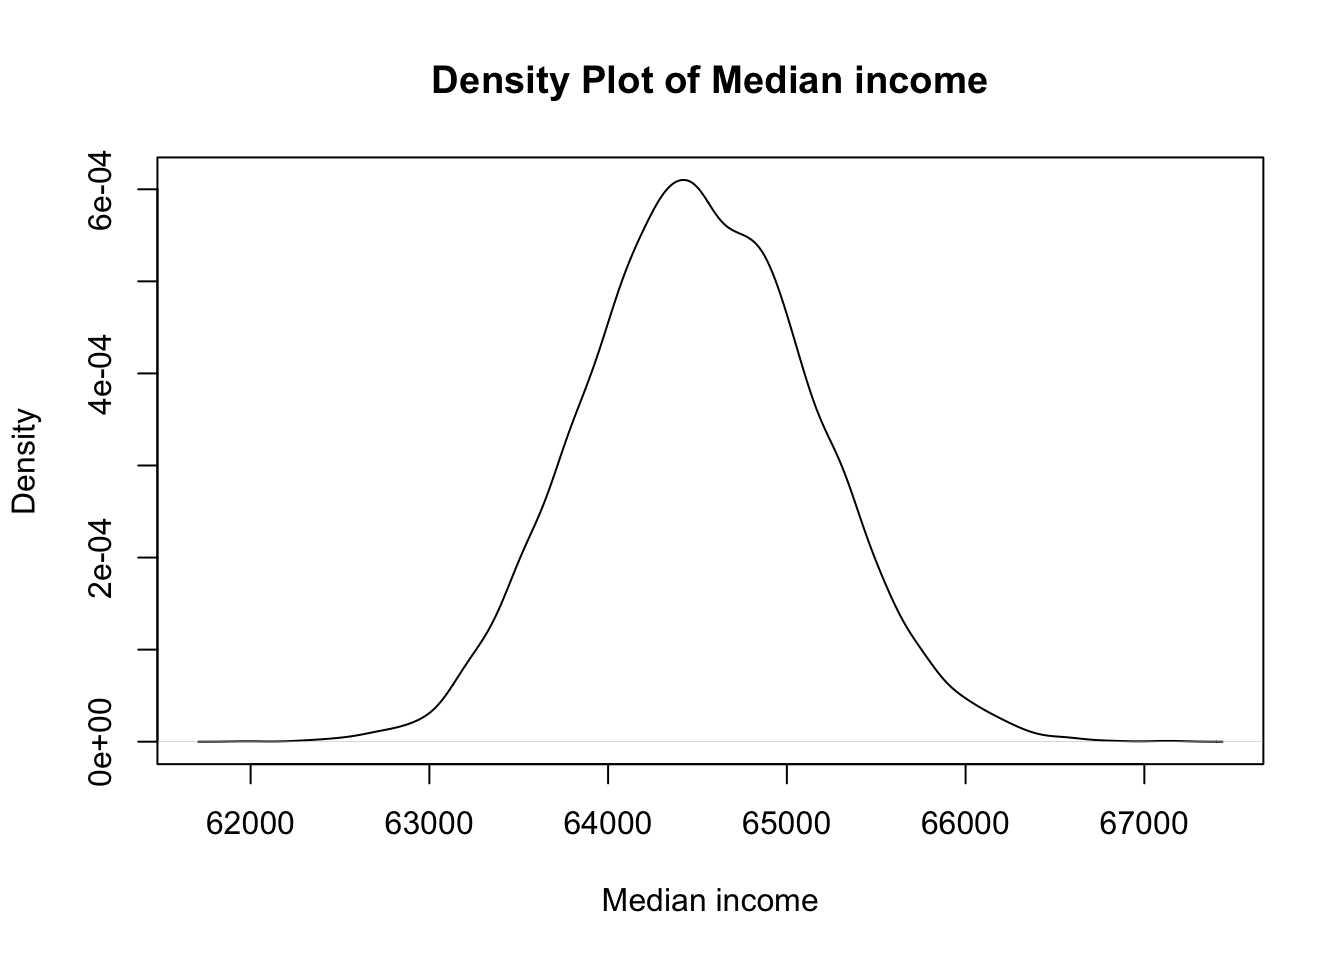
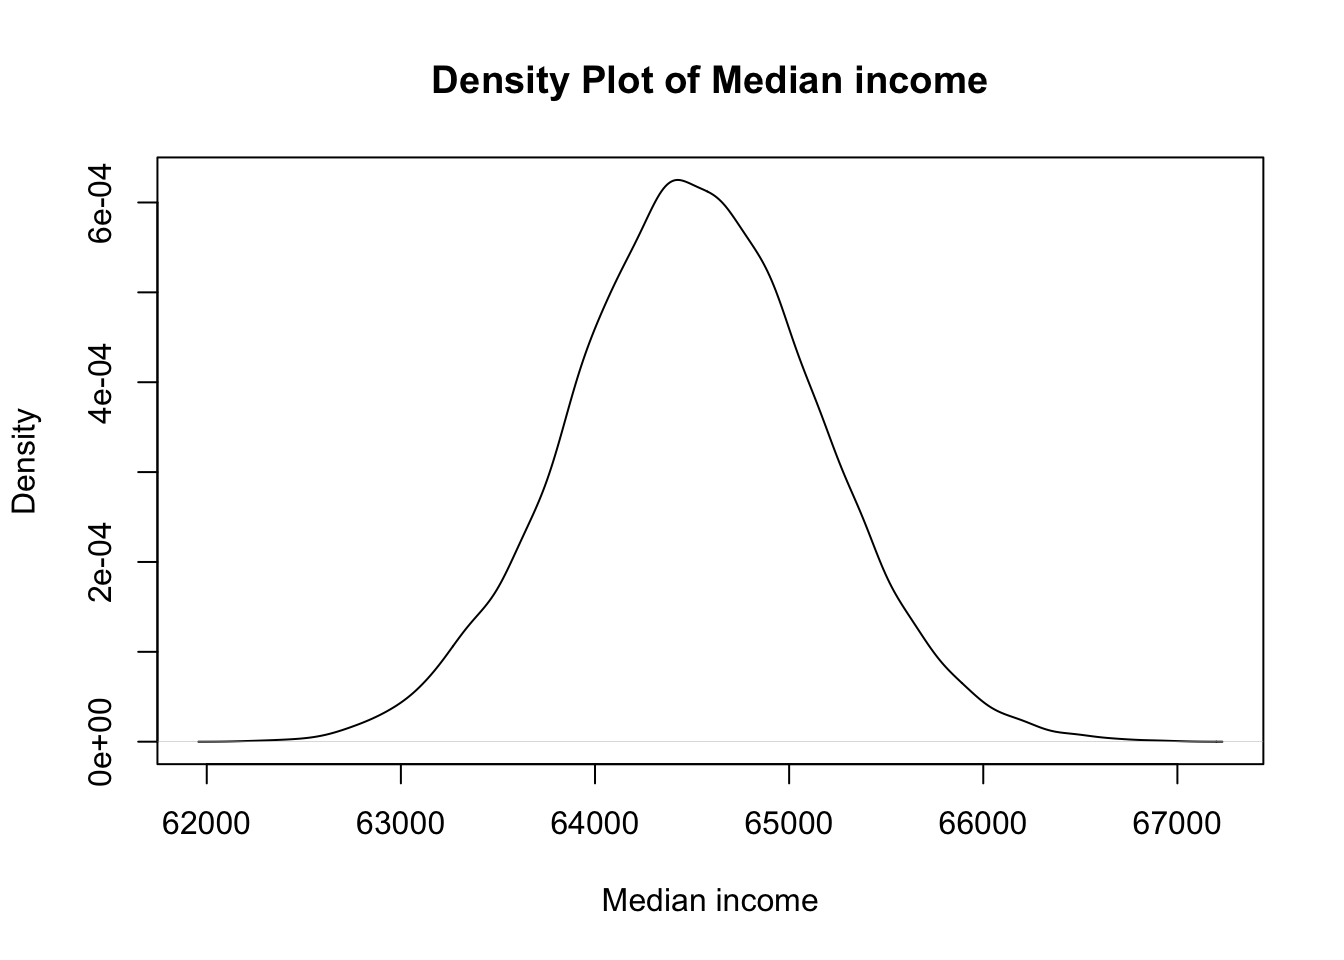
table change in css

diff --git a/docs/styles.css b/docs/styles.css
@@ -19,29 +19,22 @@ table {
     border-collapse: collapse;
 }
 
-/* Responsive adjustments for smaller screens */
-@media (max-width: 600px) {
-    table, th, td {
-        display: block; /* Make each row of the table a block element */
-    }
-    
-    th {
-        position: absolute;
-        left: -9999px; /* Hide header for small screens */
-    }
-    
-    td {
-        position: relative;
-        padding-left: 50%; /* Adjust for the header cell width */
-        white-space: nowrap; /* Prevent text wrapping in cells */
-    }
-    
-    /* Adjust the position of the cell content */
-    td::before {
-        content: attr(data-label);
-        position: absolute;
-        left: 10px;
-        font-weight: bold;
-    }
+/* Make tables horizontally scrollable */
+table {
+    width: 100%;
+    border-collapse: collapse;
+    overflow-x: auto; /* Enables horizontal scrolling */
 }
 
+/* Styling for table headers */
+th {
+    background-color: #f2f2f2; /* Optional: add background color to distinguish headers */
+    text-align: left;
+    padding: 8px;
+}
+
+/* Styling for table cells */
+td {
+    padding: 8px;
+    border: 1px solid #ddd;
+}

diff --git a/styles.css b/styles.css
@@ -19,29 +19,22 @@ table {
     border-collapse: collapse;
 }
 
-/* Responsive adjustments for smaller screens */
-@media (max-width: 600px) {
-    table, th, td {
-        display: block; /* Make each row of the table a block element */
-    }
-    
-    th {
-        position: absolute;
-        left: -9999px; /* Hide header for small screens */
-    }
-    
-    td {
-        position: relative;
-        padding-left: 50%; /* Adjust for the header cell width */
-        white-space: nowrap; /* Prevent text wrapping in cells */
-    }
-    
-    /* Adjust the position of the cell content */
-    td::before {
-        content: attr(data-label);
-        position: absolute;
-        left: 10px;
-        font-weight: bold;
-    }
+/* Make tables horizontally scrollable */
+table {
+    width: 100%;
+    border-collapse: collapse;
+    overflow-x: auto; /* Enables horizontal scrolling */
 }
 
+/* Styling for table headers */
+th {
+    background-color: #f2f2f2; /* Optional: add background color to distinguish headers */
+    text-align: left;
+    padding: 8px;
+}
+
+/* Styling for table cells */
+td {
+    padding: 8px;
+    border: 1px solid #ddd;
+}

diff --git a/docs/posts/montecarlo.html b/docs/posts/montecarlo.html
@@ -2078,7 +2078,7 @@ Income distribution is not normal
 </details>
 <div class="cell-output cell-output-stdout">
 <pre><code>     Min.   1st Qu.    Median      Mean   3rd Qu.      Max. 
-   210150    295394    344680    587295    436622 680250397 </code></pre>
+   212228    294337    342615    587664    434633 280144379 </code></pre>
 </div>
 <details open="" class="code-fold">
 <summary>Code</summary>
@@ -2086,7 +2086,7 @@ Income distribution is not normal
 </details>
 <div class="cell-output cell-output-stdout">
 <pre><code>   Min. 1st Qu.  Median    Mean 3rd Qu.    Max. 
-  61984   64071   64502   64513   64949   67161 </code></pre>
+  62231   64082   64506   64512   64939   66958 </code></pre>
 </div>
 <details open="" class="code-fold">
 <summary>Code</summary>
@@ -2094,7 +2094,7 @@ Income distribution is not normal
 </details>
 <div class="cell-output cell-output-stdout">
 <pre><code>     Min.   1st Qu.    Median      Mean   3rd Qu.      Max. 
-1.058e+06 3.300e+06 5.650e+06 2.926e+07 1.172e+07 6.799e+10 </code></pre>
+9.903e+05 3.247e+06 5.558e+06 2.945e+07 1.163e+07 2.798e+10 </code></pre>
 </div>
 </div>
 </section>

diff --git a/docs/Biomedical/Research Methodology/wrangling.html b/docs/Biomedical/Research Methodology/wrangling.html
@@ -3372,11 +3372,11 @@ Record
 <div class="cell-output cell-output-stdout">
 <pre><code>     age   sex  class
    &lt;int&gt; &lt;int&gt; &lt;fctr&gt;
-1:     1     1  child
+1:     1     0  child
 2:     2     1  child
 3:     3     1  child
-4:     4     0  child
-5:     5     1  child
+4:     4     1  child
+5:     5     0  child
 6:     6     0  child</code></pre>
 </div>
 </div>
@@ -3395,11 +3395,11 @@ Record
 <pre><code>Key: &lt;age&gt;
      age      0      1
    &lt;int&gt; &lt;fctr&gt; &lt;fctr&gt;
-1:     1   &lt;NA&gt;  child
+1:     1  child   &lt;NA&gt;
 2:     2   &lt;NA&gt;  child
 3:     3   &lt;NA&gt;  child
-4:     4  child   &lt;NA&gt;
-5:     5   &lt;NA&gt;  child
+4:     4   &lt;NA&gt;  child
+5:     5  child   &lt;NA&gt;
 6:     6  child   &lt;NA&gt;</code></pre>
 </div>
 </div>
